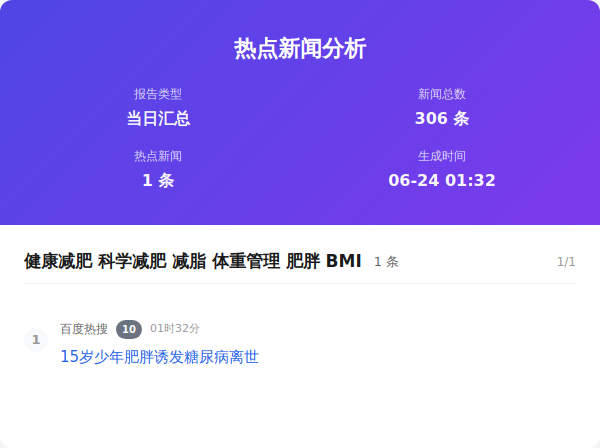
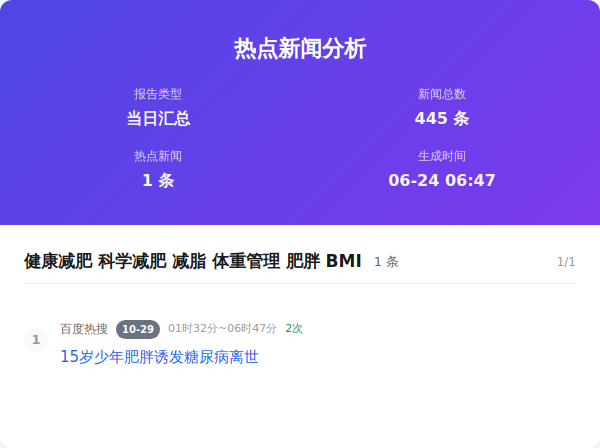
Auto update by GitHub Actions at Wed Jun 24 06:47:52 CST 2026

Changed region(s): [[0.21, 0.7188, 0.51, 0.7812], [0.75, 0.375, 0.84, 0.4375], [0.69, 0.25, 0.75, 0.2812]]

diff --git a/output/2026年06月24日/html/当日汇总.html b/output/2026年06月24日/html/当日汇总.html
@@ -357,7 +357,7 @@
                     </div>
                     <div class="info-item">
                         <span class="info-label">新闻总数</span>
-                        <span class="info-value">306 条</span>
+                        <span class="info-value">445 条</span>
                     </div>
                     <div class="info-item">
                         <span class="info-label">热点新闻</span>
@@ -365,7 +365,7 @@
                     </div>
                     <div class="info-item">
                         <span class="info-label">生成时间</span>
-                        <span class="info-value">06-24 01:32</span>
+                        <span class="info-value">06-24 06:47</span>
                     </div>
                 </div>
             </div>
@@ -383,7 +383,7 @@
                         <div class="news-number">1</div>
                         <div class="news-content">
                             <div class="news-header">
-                                <span class="source-name">百度热搜</span><span class="rank-num ">10</span><span class="time-info">01时32分</span>
+                                <span class="source-name">百度热搜</span><span class="rank-num ">10-29</span><span class="time-info">01时32分~06时47分</span><span class="count-info">2次</span>
                             </div>
                             <div class="news-title"><a href="https://www.baidu.com/s?wd=15%E5%B2%81%E5%B0%91%E5%B9%B4%E8%82%A5%E8%83%96%E8%AF%B1%E5%8F%91%E7%B3%96%E5%B0%BF%E7%97%85%E7%A6%BB%E4%B8%96" target="_blank" class="news-link">15岁少年肥胖诱发糖尿病离世</a>
                             </div>